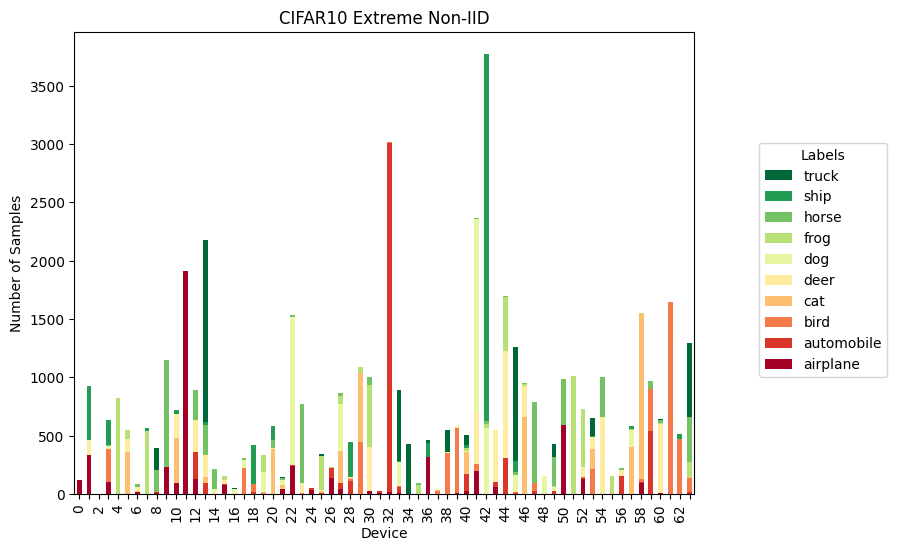
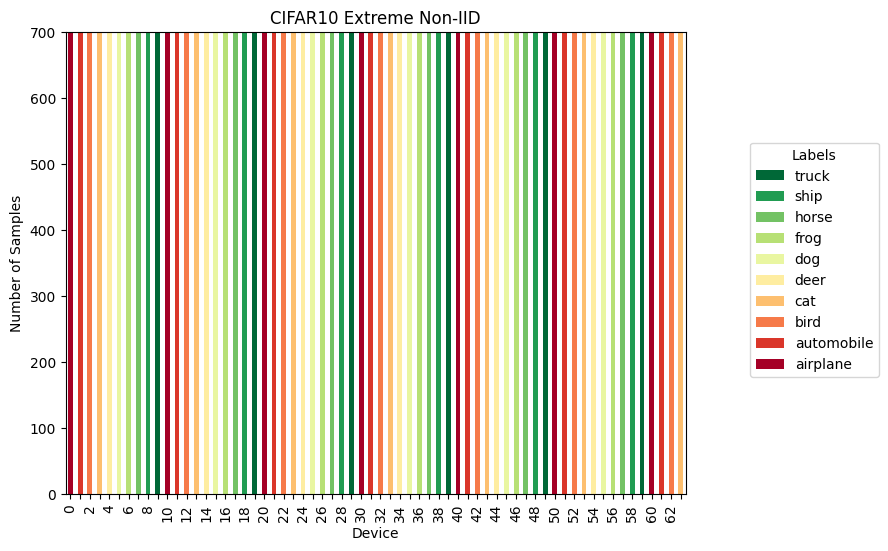
feat: use pathological partitioner for non iid experiments

diff --git a/experiments/2.2.1/task.py b/experiments/2.2.1/task.py
@@ -3,7 +3,7 @@ from flwr.server.strategy import FedAvg
 
 from netfl.core.task import Task, Dataset, DatasetInfo, DatasetPartitioner, TrainConfigs
 from netfl.core.models import cnn3
-from netfl.core.partitioner import DirichletPartitioner
+from netfl.core.partitioner import PathologicalPartitioner
 
 
 class Cifar10(Task):
@@ -15,7 +15,10 @@ class Cifar10(Task):
         )
     
     def dataset_partitioner(self) -> DatasetPartitioner:
-        return DirichletPartitioner(alpha=1.0)
+        return PathologicalPartitioner(
+            num_classes_per_partition=4,
+            class_assignment_mode='deterministic'
+        )
 
     def normalized_dataset(self, raw_dataset: Dataset) -> Dataset:
         return Dataset(

diff --git a/experiments/2.2.2/task.py b/experiments/2.2.2/task.py
@@ -3,7 +3,7 @@ from flwr.server.strategy import FedAvg
 
 from netfl.core.task import Task, Dataset, DatasetInfo, DatasetPartitioner, TrainConfigs
 from netfl.core.models import cnn3
-from netfl.core.partitioner import DirichletPartitioner
+from netfl.core.partitioner import PathologicalPartitioner
 
 
 class Cifar10(Task):
@@ -15,7 +15,10 @@ class Cifar10(Task):
         )
     
     def dataset_partitioner(self) -> DatasetPartitioner:
-        return DirichletPartitioner(alpha=0.1)
+        return PathologicalPartitioner(
+            num_classes_per_partition=1,
+            class_assignment_mode='deterministic'
+        )
 
     def normalized_dataset(self, raw_dataset: Dataset) -> Dataset:
         return Dataset(

diff --git a/experiments/README.md b/experiments/README.md
@@ -16,13 +16,25 @@
 
 ### IID
 
+IID partitioner:
+
   ![IID Partitioning](./images/CIFAR10-IID.png)
 
-### Non-IID (Dirichlet, α = 1.0)
+### Non-IID
+
+Pathological partitioner with:
+
+  - Classes per partition: 4
+  - Class assignment mode: deterministic
 
   ![Non-IID Partitioning](./images/CIFAR10-Non-IID.png)
 
-### Extreme Non-IID (Dirichlet, α = 0.1)
+### Extreme Non-IID
+
+Pathological partitioner with:
+
+  - Classes per partition: 1
+  - Class assignment mode: deterministic
 
   ![Extreme Non-IID](./images/CIFAR10-Extreme-Non-IID.png)
 
@@ -94,10 +106,10 @@
 
   - Devices: 32 × Raspberry Pi 4 (1.5 GHz, 8 GB)
   - Bandwidth: 1 Gbps
-  - Partitioning: Non-IID (Dirichlet, α = 1.0)
+  - Partitioning: Non-IID
 
 #### 2.2.2
   
   - Devices: 32 × Raspberry Pi 4 (1.5 GHz, 8 GB)
   - Bandwidth: 1 Gbps
-  - Partitioning: Extreme Non-IID (Dirichlet, α = 0.1)
+  - Partitioning: Extreme Non-IID
